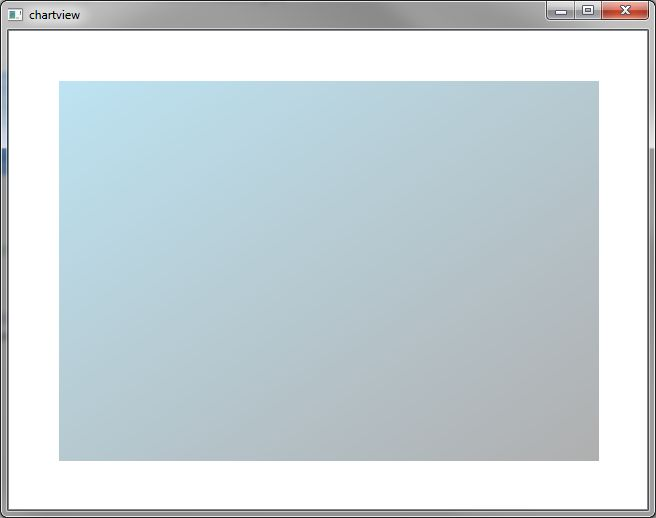
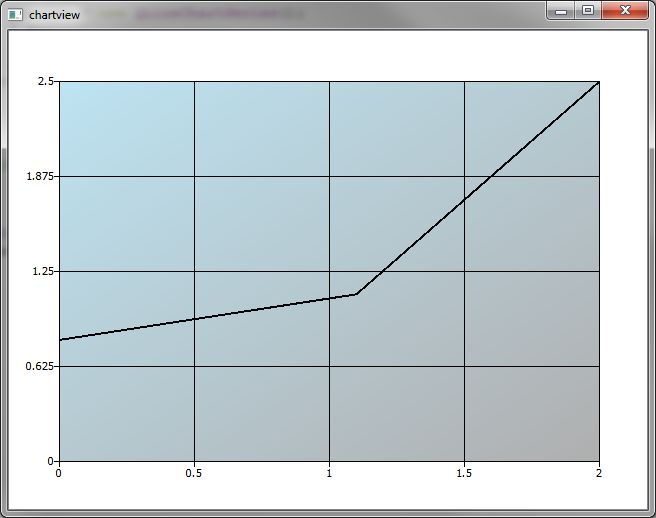
More examples on QChartView qdoc

diff --git a/example/chartview/main.cpp b/example/chartview/main.cpp
@@ -3,6 +3,11 @@
 #include <qchartglobal.h>
 #include <qchartview.h>
 #include <qlinechartseries.h>
+#include <qscatterseries.h>
+#include <qbarchartseries.h>
+#include <qbarset.h>
+#include <qbarcategory.h>
+#include <qpieseries.h>
 
 QTCOMMERCIALCHART_USE_NAMESPACE
 
@@ -13,26 +18,54 @@ int main(int argc, char *argv[])
     //! [1]
     // Create chart view
     QChartView *chartView = new QChartView();
-    chartView->setChartTheme(QChart::ChartThemeIcy);
+    // Add series to the chart
+    QLineChartSeries *line = new QLineChartSeries();
+    line->add(0.0, 0.8);
+    line->add(1.1, 1.1);
+    line->add(2.0, 2.5);
+    chartView->addSeries(line);
     //! [1]
 
     //! [2]
-    // Add series to the chart
-    QLineChartSeries *series = new QLineChartSeries();
-    series->add(0.0, 0.8);
-    series->add(1.1, 1.1);
-    series->add(1.6, 1.8);
-    series->add(2.0, 2.5);
-    chartView->addSeries(series);
+    // Change theme
+    chartView->setChartTheme(QChart::ChartThemeScientific);
     //! [2]
 
     //! [3]
-    // Change theme
-    chartView->setChartTheme(QChart::ChartThemeScientific);
+    // Add pie series
+    QPieSeries *pie = new QPieSeries();
+    pie->add(3.4, "slice1");
+    pie->add(6.7, "slice2");
+    chartView->addSeries(pie);
     //! [3]
 
+    //! [4]
+    // Add scatter series
+    QScatterSeries *scatter = new QScatterSeries();
+    for (qreal x(0); x < 100; x += 0.5) {
+        qreal y = rand() % 100;
+        *(scatter) << QPointF(x, y);
+    }
+    chartView->addSeries(scatter);
+    //! [4]
+
+    //! [5]
+    // Add bar series
+    QBarCategory *barCategory = new QBarCategory();
+    *barCategory << "Jan"
+                 << "Feb"
+                 << "Mar";
+    QBarChartSeries *bar = new QBarChartSeries(barCategory);
+    QBarSet *barSet = new QBarSet("Sales");
+    *barSet << 123.2
+            << 301.3
+            << 285.8;
+    bar->addBarSet(barSet);
+    chartView->addSeries(bar);
+    //! [5]
+
     QMainWindow w;
-    w.resize(640, 480);
+    w.resize(350, 250);
     w.setCentralWidget(chartView);
     w.show();
 

diff --git a/src/qchartview.cpp b/src/qchartview.cpp
@@ -22,20 +22,30 @@
     \class QChartView
     \brief Standalone charting widget.
 
-    QChartView is a standalone widget that can display charts. It does not require separate QGraphicsScene to work. It manages the graphical
-    representation of different types of QChartSeries and other chart related objects like
-    QChartAxis and QChartLegend. If you want to display a chart in your existing QGraphicsScene, you can use the QChart class instead.
+    QChartView is a standalone widget that can display charts. It does not require separate
+    QGraphicsScene to work. It manages the graphical representation of different types of
+    QChartSeries and other chart related objects like QChartAxis and QChartLegend. If you want to
+    display a chart in your existing QGraphicsScene, you can use the QChart class instead.
 
-    For example, to create an empty chart in a widget based application:
+    For example, to create a chart with line series using a widget based application:
     \snippet ../example/chartview/main.cpp 1
     \image chartview_example.jpg
 
-    To add a line series:
-    \snippet ../example/chartview/main.cpp 2
-    \image chartview_example_series.jpg
-
-    To modify the visual appearance of the chart, you can use the pre-defined themes:
+    Showing a few more series:
     \snippet ../example/chartview/main.cpp 3
+    \codeline
+    \snippet ../example/chartview/main.cpp 4
+    \codeline
+    \snippet ../example/chartview/main.cpp 5
+
+    And the corresponding results:
+    \image chartview_example_pie.jpg
+    \image chartview_example_scatter.jpg
+    \image chartview_example_bar.jpg
+
+    If you need to give a more professional touch to your chart you can switch to one of the
+    pre-defined themes:
+    \snippet ../example/chartview/main.cpp 2
     \image chartview_example_theme.jpg
 
     \sa QChart

diff --git a/src/charttheme.cpp b/src/charttheme.cpp
@@ -57,7 +57,7 @@ ChartTheme* ChartTheme::createTheme(QChart::ChartTheme theme)
 {
     switch(theme) {
         case QChart::ChartThemeDefault:
-            return new ChartTheme();
+            return new ChartThemeIcy();
         case QChart::ChartThemeVanilla:
             return new ChartThemeVanilla();
         case QChart::ChartThemeIcy:
